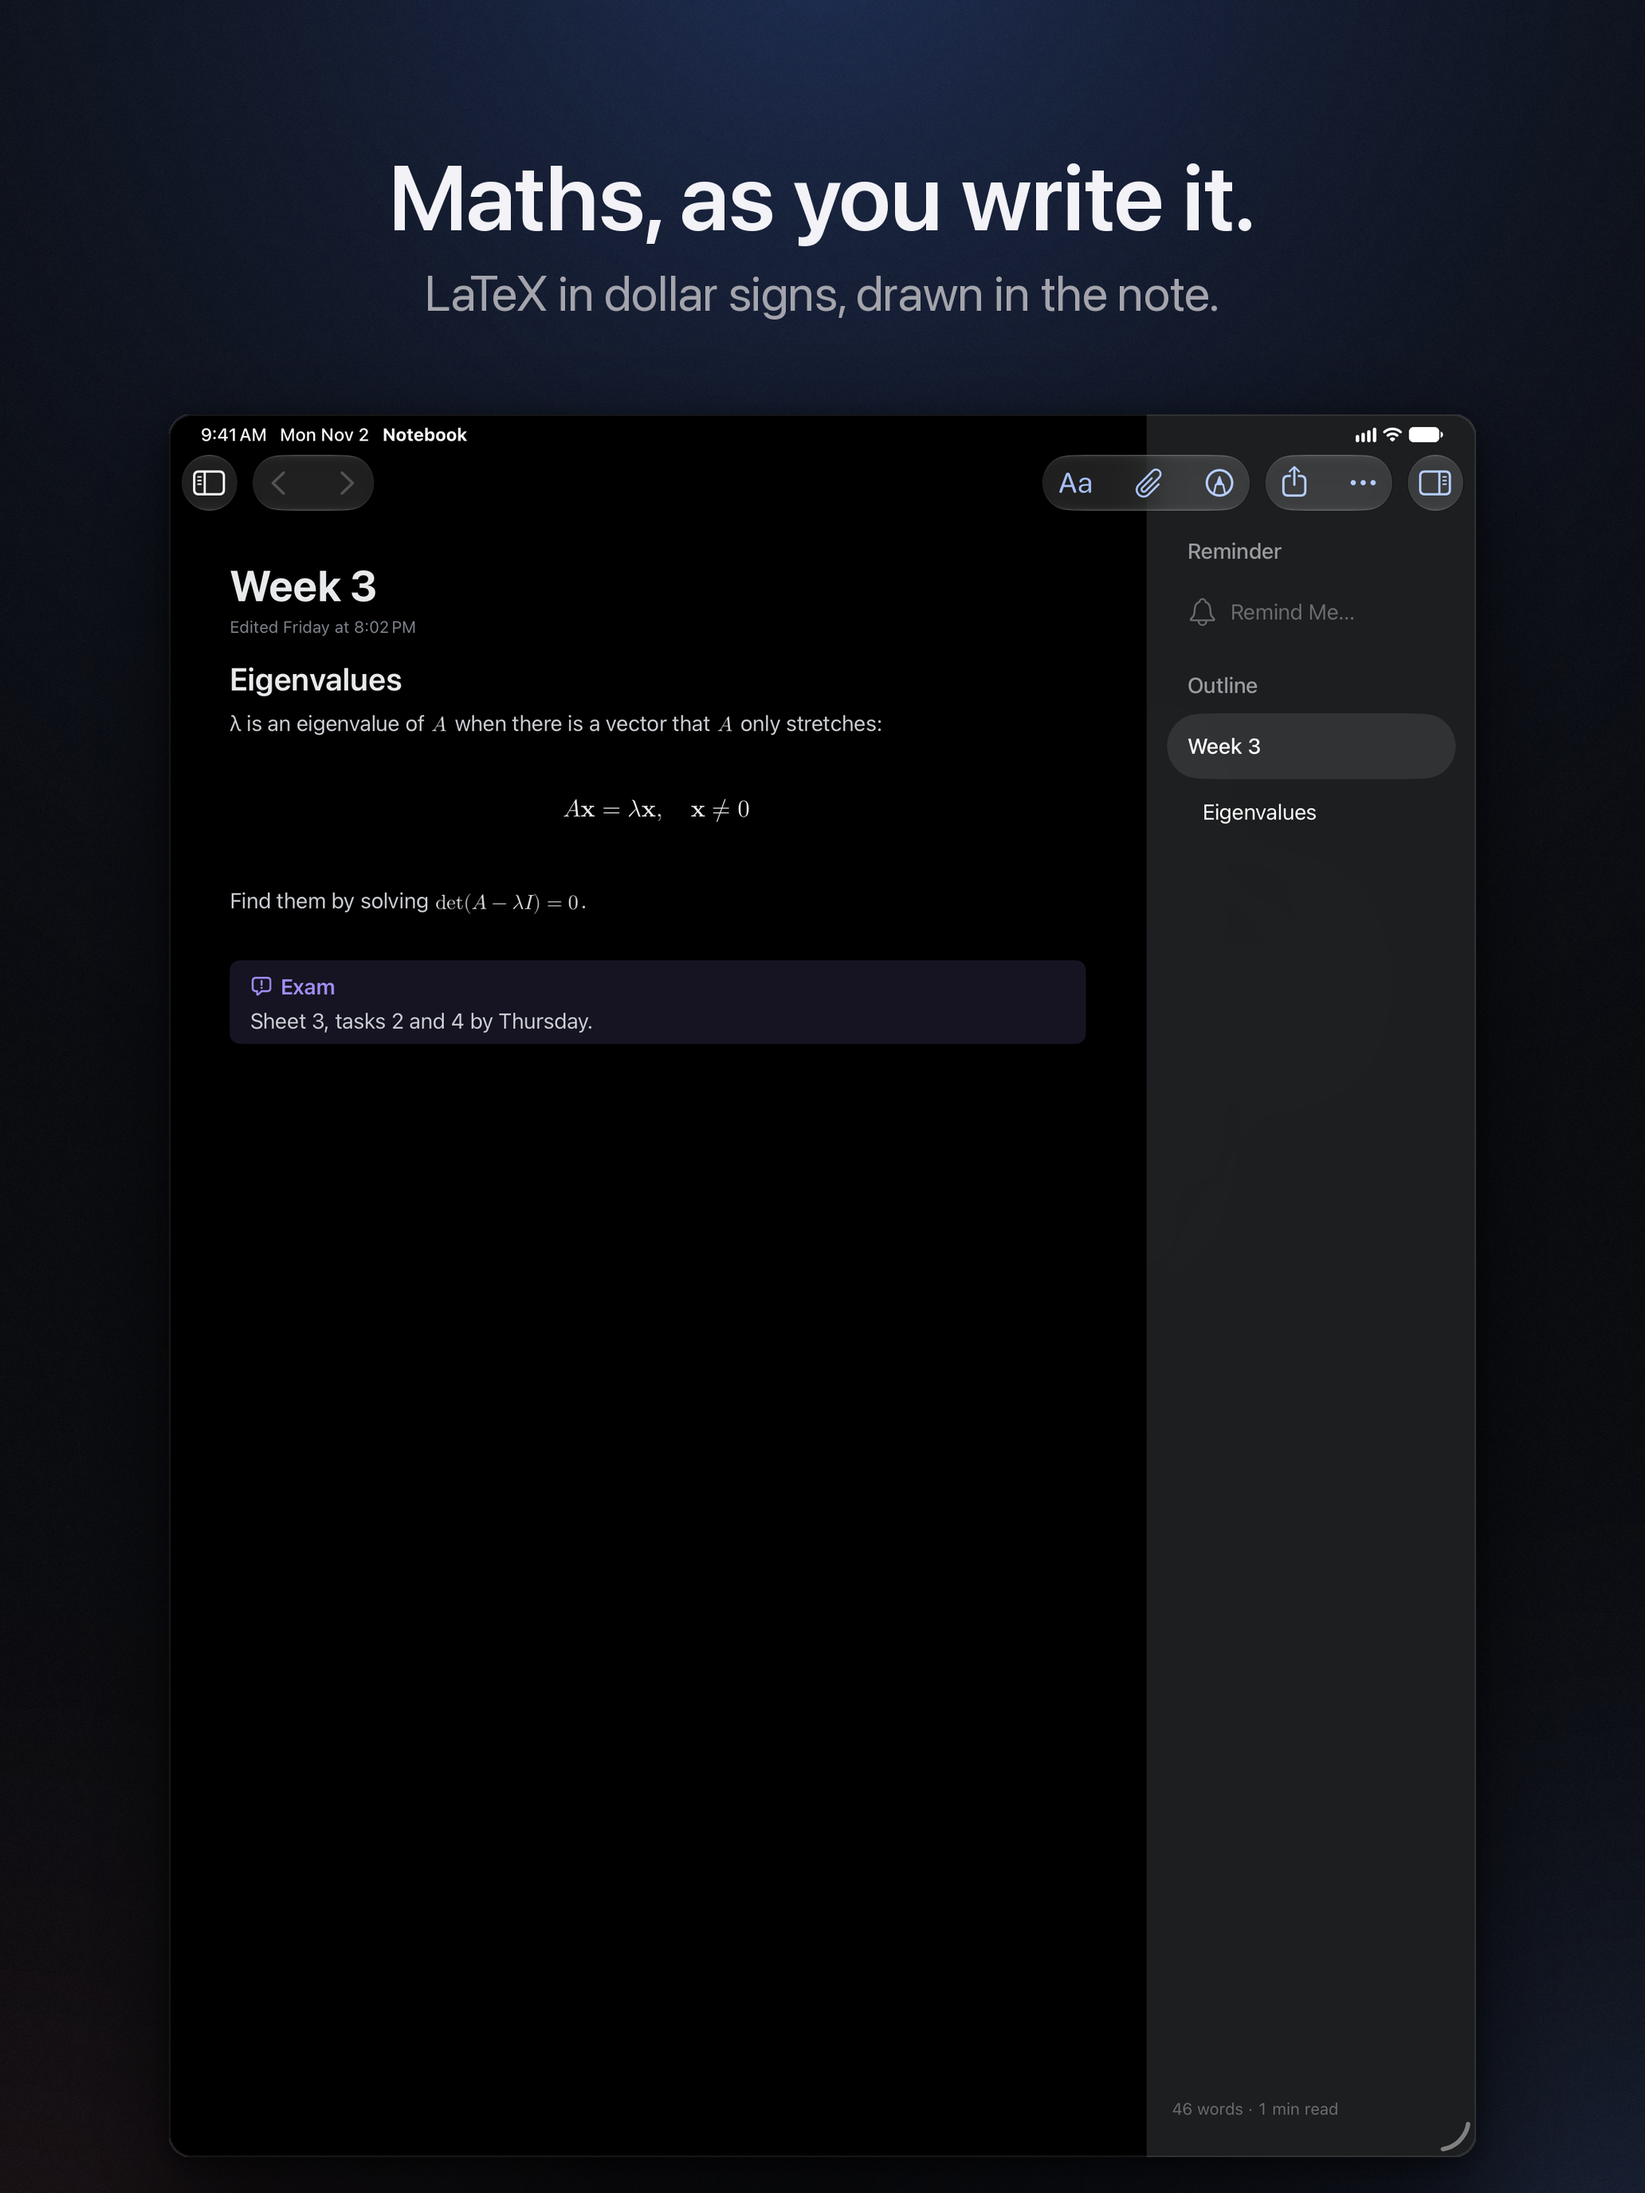
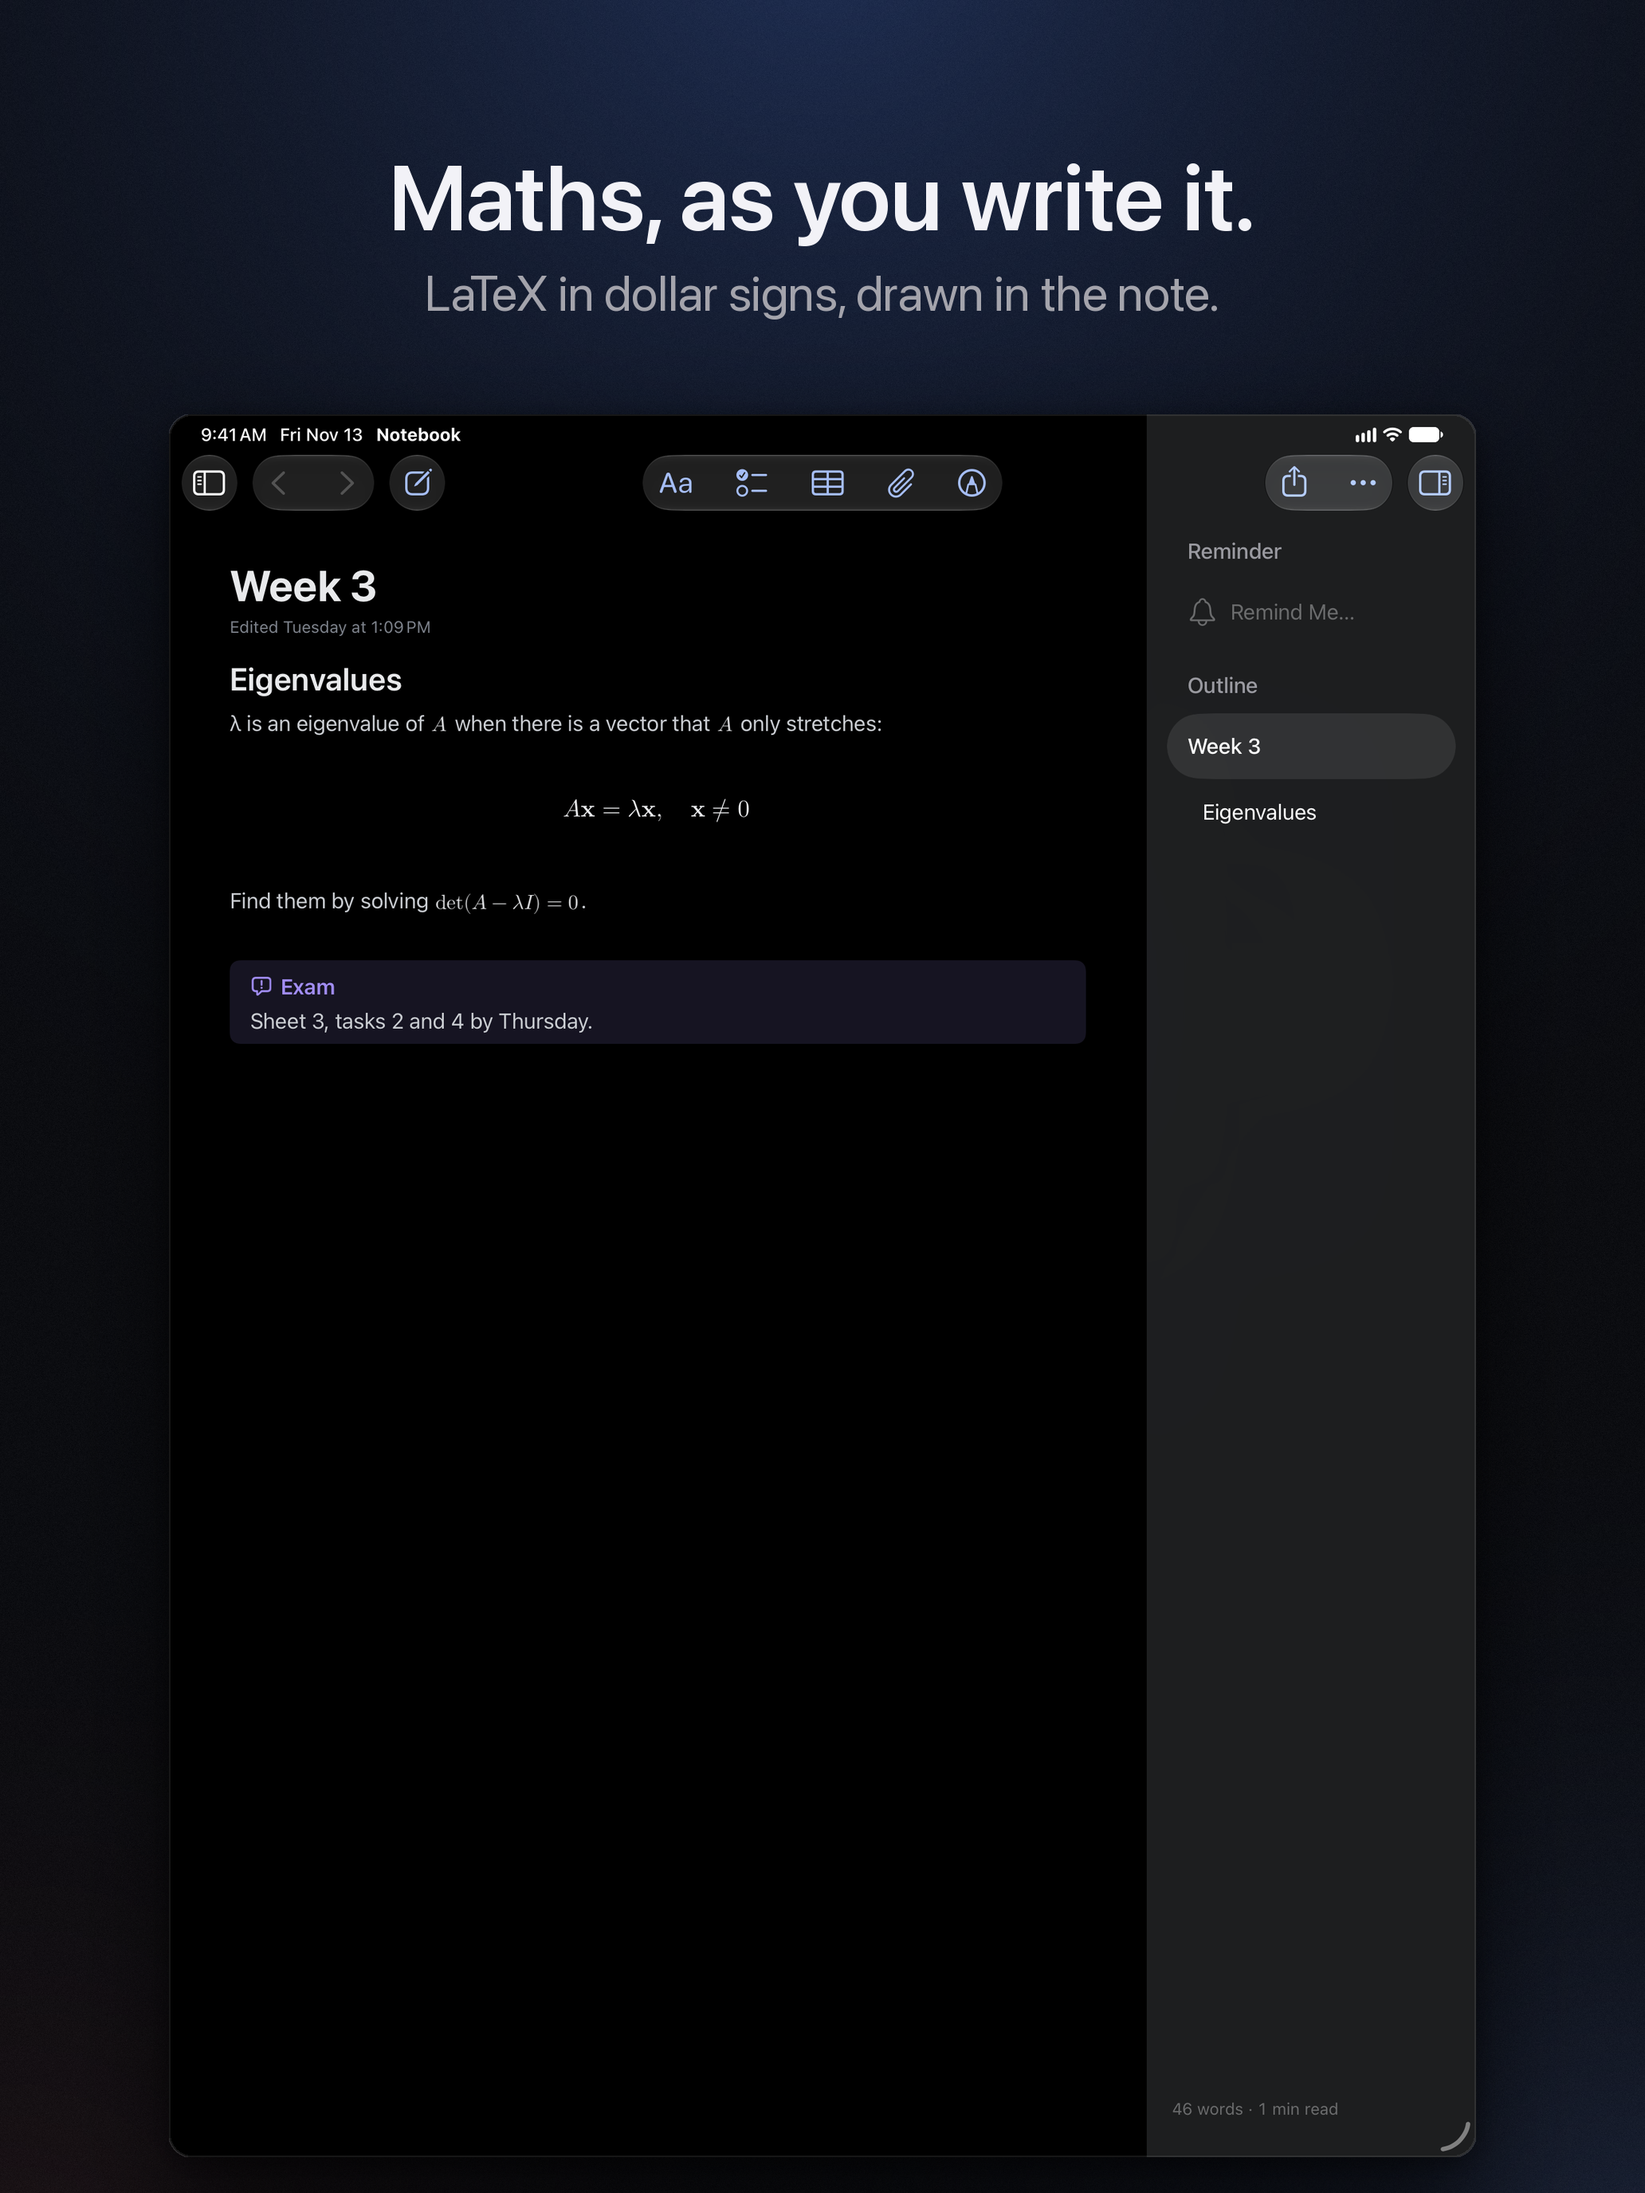
Release 1.3.0: version, store texts and screenshots (#363)
* Release 1.3.0: version, store texts, changelog and README

* App Store screenshots of iPhone and iPad for 1.3.0

* Mac App Store screenshots for 1.3.0, the handwritten PDF taken again

The search picture waits until the sample pictures are read, so ⌘K shows
what it finds in them.

---------

Changed region(s): [[0.3721, 0.1875, 0.7752, 0.25], [0.186, 0.1875, 0.2791, 0.25], [0.2171, 0.2812, 0.2481, 0.3125]]

diff --git a/README.md b/README.md
@@ -25,7 +25,7 @@
   <img alt="Apple silicon" src="https://img.shields.io/badge/Apple%20silicon-native-34508F">
   <img alt="Built with Swift, SwiftUI, AppKit and UIKit" src="https://img.shields.io/badge/Swift-SwiftUI%20%2B%20AppKit%20%2B%20UIKit-F05138">
   <a href="#license"><img alt="License: GPLv3" src="https://img.shields.io/badge/license-GPLv3-34508F"></a>
-  <a href="CHANGELOG.md"><img alt="Version 1.2.0" src="https://img.shields.io/badge/version-1.2.0-34508F"></a>
+  <a href="CHANGELOG.md"><img alt="Version 1.3.0" src="https://img.shields.io/badge/version-1.3.0-34508F"></a>
 </p>
 
 <p align="center">
@@ -44,10 +44,11 @@
   <img alt="Notebook showing the note Kyoto trip: links to Budget and Flight tickets.pdf, a picture of a torii gate and a packing checklist; the folders of iCloud Drive in the sidebar and the note's outline on the right" src="Design/screenshots/hero-light.webp">
 </picture>
 
-> **Version 1.2.0** covers writing, organising and finding notes day to day, on the Mac, iPhone and iPad, and adds
-> handwritten notes: PDFs of lined, squared or dotted paper to write in with Apple Pencil, with pages to add, move and
-> picture. Notebook is [in the App Store](https://apps.apple.com/app/id6823609514) for the Mac, iPhone and iPad, free;
-> the App Store has 1.1.0 until Apple has reviewed 1.2.0. You can also build it from source (five minutes, see below).
+> **Version 1.3.0** covers writing, organising and finding notes day to day, on the Mac, iPhone and iPad, with
+> handwritten notes on lined, squared or dotted paper, and adds tables you type in as in Notes, AsciiDoc notes and
+> Quick Look that shows a note as Notebook does. Notebook is [in the App Store](https://apps.apple.com/app/id6823609514)
+> for the Mac, iPhone and iPad, free; the App Store has 1.2.0 until Apple has reviewed 1.3.0. You can also build it
+> from source (five minutes, see below).
 
 ## Why
 

diff --git a/CHANGELOG.md b/CHANGELOG.md
@@ -3,7 +3,10 @@
 Everything users would notice, newest first. The format follows [Keep a Changelog](https://keepachangelog.com), and
 versions follow [semantic versioning](https://semver.org).
 
-## [Unreleased]
+## [1.3.0] – not released yet
+
+Tables you type in as in Notes; AsciiDoc notes; Quick Look and thumbnails that show a note as Notebook does; the
+toolbar, the first screen and the icon laid out as in Apple's own apps; and typing that stays light in long notes.
 
 ### Added
 
@@ -163,7 +166,7 @@ versions follow [semantic versioning](https://semver.org).
   took. Only the lines around the edit are read, up to where they read as before, and a key in that note takes about a
   fifth of the time it did. Laying out a note's text, which looks for the marks it hides, takes a sixth of the time.
 
-## [1.2.0] – not released yet
+## [1.2.0] – 2026-11-04
 
 Handwritten notes on iPhone and iPad, with All Pages and pictures on the page; drawing and highlighting PDFs on the Mac;
 Copy File; VoiceOver reading a note as it shows; and nothing you write lost when a save fails.

diff --git a/Design/app-store.md b/Design/app-store.md
@@ -151,7 +151,7 @@ The app and the listing are in English (U.S.) only, for now (#27).
 `fastlane/metadata/en-US/release_notes.txt`, for users, from the changelog: what a version brings first, then the
 fixes most would notice. The first version had none.
 
-The texts and screenshots in the repository are for one version, `STORE_TEXTS_VERSION` in the Fastfile (1.2.0 now). An
+The texts and screenshots in the repository are for one version, `STORE_TEXTS_VERSION` in the Fastfile (1.3.0 now). An
 upload for an earlier version, such as Mac 1.0 sent back by App Review and uploaded again, leaves its What's New,
 promotional text, description and screenshots as App Store Connect has them, since 1.1's would describe what 1.0
 doesn't have; the subtitle, keywords and the other texts go up. With each release whose texts are rewritten,
